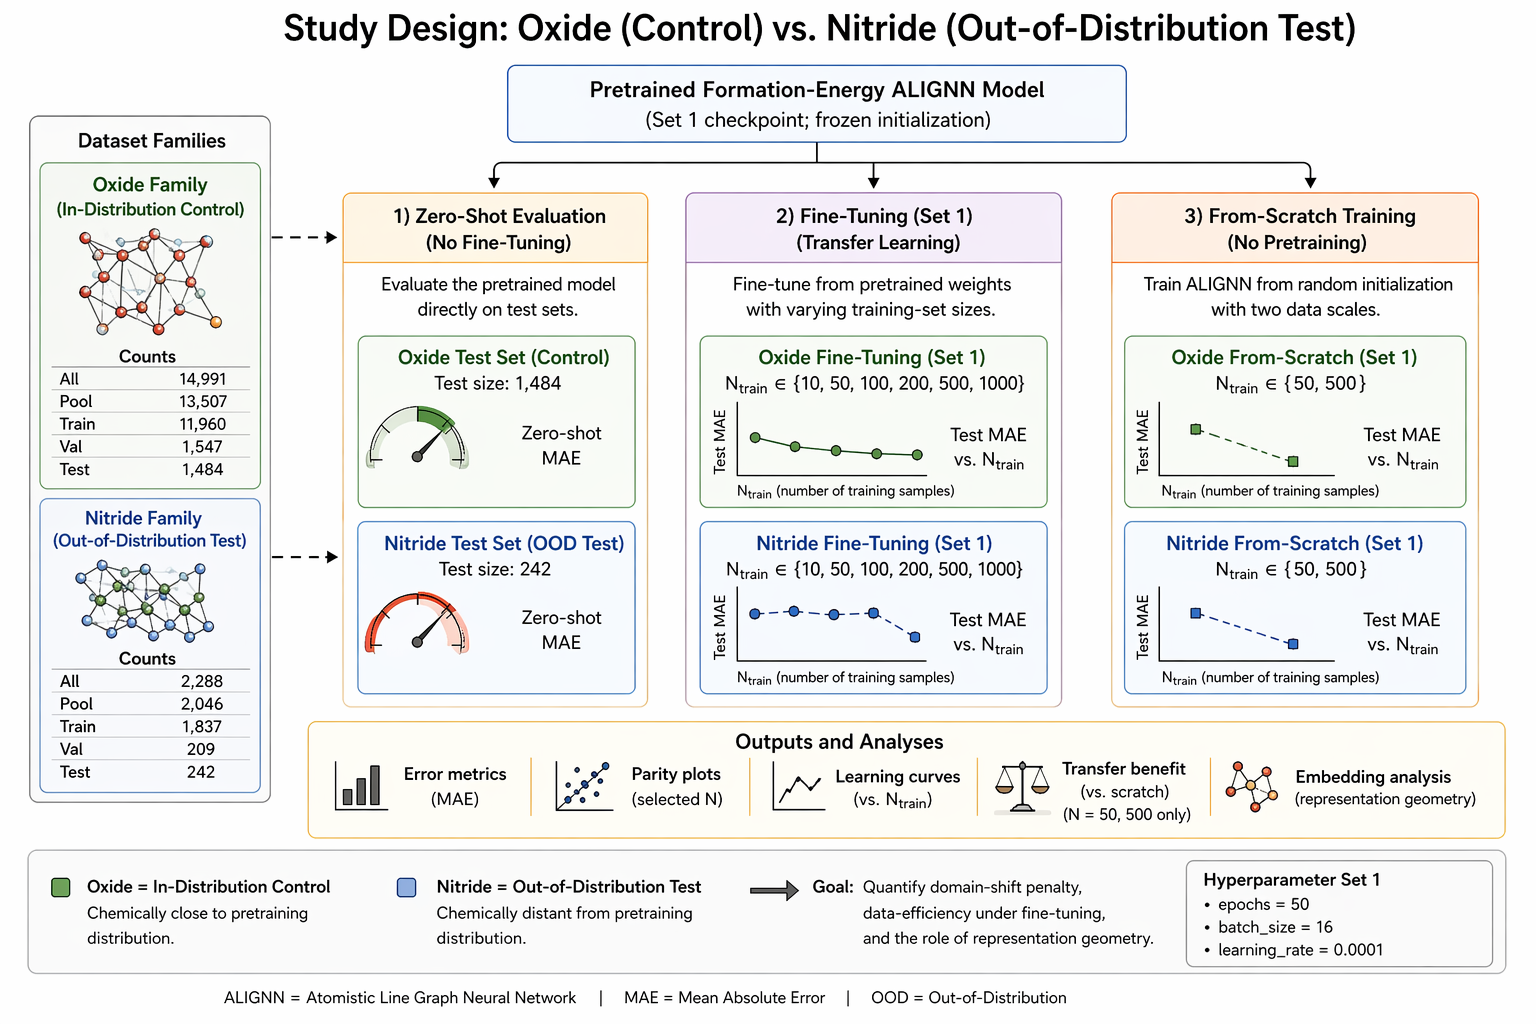
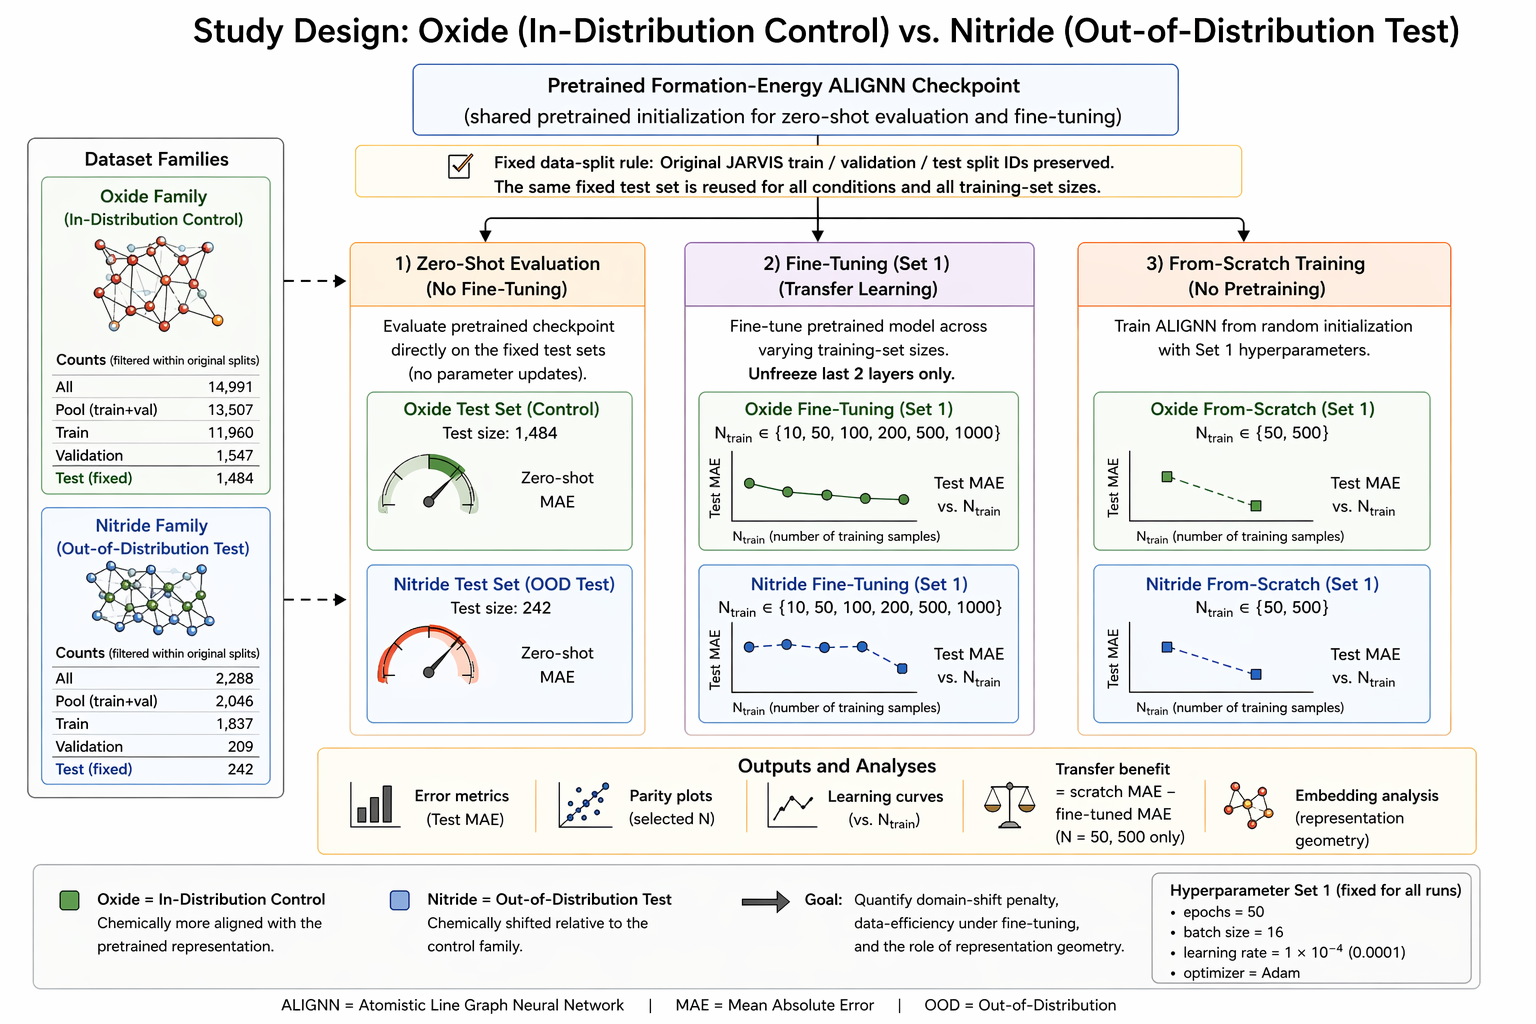
Phase 4 Core_Figures Done

Changed region(s): [[0.0, 0.0, 0.9688, 1.0]]

diff --git a/reports/final_paper_factory/02_figure_memos/fig05_transfer_benefit_comparison_memo.md b/reports/final_paper_factory/02_figure_memos/fig05_transfer_benefit_comparison_memo.md
@@ -1,0 +1,74 @@
+# Figure Memo: Fig. 05 Transfer-Benefit Comparison
+
+## Metadata
+
+- Figure label: `FIG_TRANSFER_BENEFIT`
+- Source figure: `reports/final_paper_factory/02_figure_memos/core_figures/FIG_TRANSFER_BENEFIT.png`
+- Canonical source path: `reports/final_paper_factory/02_figure_memos/core_figures/FIG_TRANSFER_BENEFIT.png`
+- Linked tables:
+  - `reports/Hyperparameter Set 1/Summaries/From Scratch/fromscratch_summary.csv`
+  - `reports/Hyperparameter Set 1/Summaries/Finetuning/finetune_summary_by_N.csv`
+- Definition shown in figure: `transfer benefit = scratch MAE - fine-tuned MAE`
+- Report membership: `combined`
+- Placement: `main_text`
+- External analysis inputs:
+  - `c:\Users\lenovo\Desktop\ChatGPT Figure Memo.txt`
+  - `c:\Users\lenovo\Desktop\Claude Figure Memo.txt`
+
+## What The Figure Shows
+
+This figure compares the transfer benefit of pretraining across the oxide and nitride families at the only two sample sizes where from-scratch baselines were run: `N=50` and `N=500`. The plotted quantity is defined as `scratch MAE - fine-tuned MAE`, so a larger positive bar indicates a larger improvement from starting with pretrained weights rather than random initialization.
+
+The four plotted bar values are:
+
+- Oxide, `N=50`: `0.504 eV/atom`
+- Nitride, `N=50`: `0.574 eV/atom` with an explicit caveat marker
+- Oxide, `N=500`: `0.221 eV/atom`
+- Nitride, `N=500`: `0.271 eV/atom`
+
+These values are consistent with the canonical Set 1 summary tables:
+
+- Oxide, `N=50`: scratch `0.5561` minus fine-tune `0.0523` = `0.5038`
+- Nitride, `N=50`: scratch `0.6914` minus fine-tune `0.1173` = `0.5741`
+- Oxide, `N=500`: scratch `0.2643` minus fine-tune `0.0430` = `0.2214`
+- Nitride, `N=500`: scratch `0.3683` minus fine-tune `0.0977` = `0.2706`
+
+The footnote on the nitride `N=50` bar states that this value reflects pretrained initialization advantage under the canonical analysis and should not be overinterpreted as strong fine-tuning adaptation.
+
+## Justified Interpretation
+
+The safest interpretation is that pretraining provides a large positive advantage over random initialization in both families at both matched data sizes. That is the main result this figure is designed to show.
+
+The second justified pattern is that transfer benefit is larger at `N=50` than at `N=500` for both families. This is consistent with the usual transfer-learning expectation that pretrained initialization matters most in the smaller-data regime and that the scratch route closes part of the gap as more labeled data becomes available.
+
+The most important caution is how to read the cross-family ordering. The nitride bars are slightly taller than the oxide bars at both `N` values, but that does not mean nitrides adapt better overall. It means the scratch-to-fine-tune gap is larger in absolute MAE terms for nitrides at these matched points. Because the nitride scratch baseline is worse than the oxide scratch baseline at both `N=50` and `N=500`, the nitride transfer-benefit bars are mechanically inflated by a weaker random-initialization anchor.
+
+The nitride `N=50` caveat is essential. Under the canonical analysis, that point is a pretrained-initialization advantage over scratch, not a clean adaptation-success result. The figure itself already flags this, and the memo should preserve that exact reading.
+
+## Non-Claims / Cautions
+
+- This figure does not show that nitrides transfer more effectively than oxides in a broader scientific sense; the taller nitride bars reflect a worse scratch baseline, not better final performance quality.
+- This figure does not support any claim outside `N=50` and `N=500`, because from-scratch baselines do not exist at `N=10`, `100`, `200`, or `1000`.
+- This figure does not compare zero-shot against fine-tuning directly; it is only about fine-tune versus scratch.
+- This figure does not show that nitride `N=50` is strong fine-tuning adaptation; the footnote explicitly warns that it reflects initialization advantage.
+- This figure does not explain the mechanism behind the family difference; embedding analyses are needed for that.
+- This figure has no uncertainty bars, so family-level bar-height differences should not be overread as a standalone statistical comparison.
+
+## Caption Draft
+
+Figure X. Transfer benefit of pretraining for oxide and nitride formation-energy prediction at `N=50` and `N=500`. Transfer benefit is defined as `scratch MAE - fine-tuned MAE`, so larger values indicate a larger improvement from pretrained initialization relative to random initialization at matched training-set size. Pretraining provides a substantial positive benefit in both families at both data sizes, with larger gains in the smaller-data regime. The nitride `N=50` bar is marked with a caveat because, under the canonical analysis, it reflects pretrained initialization advantage over scratch rather than strong fine-tuning adaptation.
+
+## Results Paragraph Draft
+
+Figure X compares the transfer benefit of pretraining across oxide and nitride families at the two sample sizes where from-scratch baselines were run. For oxides, the transfer benefit is `0.504 eV/atom` at `N=50` and `0.221 eV/atom` at `N=500`. For nitrides, the corresponding values are `0.574 eV/atom` at `N=50` and `0.271 eV/atom` at `N=500`. Thus, pretrained initialization substantially outperforms random initialization in both families, and the absolute benefit is larger in the smaller-data regime for both. The nitride `N=50` bar requires a specific interpretation guardrail: although the improvement over scratch is large, the canonical analysis indicates that this low-`N` nitride result is best read as pretrained initialization advantage rather than strong fine-tuning adaptation.
+
+## Discussion Paragraph Draft
+
+This figure clarifies an important nuance in the domain-shift story. Pretraining is clearly valuable not only for oxides but also for nitrides, because the fine-tuned route is much better than training from scratch at the matched `N=50` and `N=500` budgets. However, the slightly larger transfer-benefit bars for nitrides should not be misread as cleaner or more successful transfer. Instead, they show that nitrides suffer more when starting from random initialization, so pretrained initialization prevents a larger loss. That is fully consistent with a domain-shift account: the out-of-distribution family still profits from pretraining in practical terms, but it remains harder overall and does not exploit fine-tuning as cleanly as the oxide control arm, especially in the low-data regime.
+
+## Role In Report
+
+- Main-text cross-family comparison figure for Results III in the combined paper.
+- Shared summary figure for the question: how much does pretraining help relative to scratch, and how does that matched-budget help compare across families.
+- Companion synthesis figure to `fig05a_oxide_comparison_plot_memo.md` and `fig05b_nitride_comparison_plot_memo.md`.
+- Scope-guard figure: all claims here are strictly limited to `N=50` and `N=500`, with the nitride `N=50` initialization-advantage caveat carried explicitly.

diff --git a/reports/final_paper_factory/02_figure_memos/fig04_zero_shot_family_comparison_memo.md b/reports/final_paper_factory/02_figure_memos/fig04_zero_shot_family_comparison_memo.md
@@ -1,0 +1,61 @@
+# Figure Memo: Fig. 04 Zero-Shot Family Comparison
+
+## Metadata
+
+- Figure label: `FIG_ZS_COMPARISON`
+- Source figure: `reports/final_paper_factory/02_figure_memos/core_figures/FIG_ZS_COMPARISON.png`
+- Canonical source path: `reports/final_paper_factory/02_figure_memos/core_figures/FIG_ZS_COMPARISON.png`
+- Linked table: `reports/zero_shot/zero_shot_summary.csv`
+- Model: `jv_formation_energy_peratom_alignn`
+- Report membership: `nitride | combined | oxide_optional`
+- Placement: `main_text`
+- External analysis inputs:
+  - `c:\Users\lenovo\Desktop\ChatGPT Figure Memo.txt`
+  - `c:\Users\lenovo\Desktop\Claude Figure Memo.txt`
+
+## What The Figure Shows
+
+This figure compares the pretrained ALIGNN model's zero-shot test MAE on the two chemical families, with no parameter updates. The oxide bar shows a zero-shot MAE of `0.0342 eV/atom` on `1484` test structures, and the nitride bar shows a zero-shot MAE of `0.0695 eV/atom` on `242` test structures.
+
+The figure therefore presents the simplest family-level baseline contrast in the project: the same pretrained checkpoint evaluated directly on the oxide control test set and the nitride out-of-distribution test set.
+
+The linked zero-shot summary table gives the underlying canonical values:
+
+- Oxide: `n_test = 1484`, `mae_eV_per_atom = 0.0341836068`
+- Nitride: `n_test = 242`, `mae_eV_per_atom = 0.0695420150`
+
+## Justified Interpretation
+
+The safest interpretation is that a substantial family-dependent performance gap is already present at the pretrained starting point. Before any fine-tuning, the pretrained model performs much better on oxides than on nitrides.
+
+Because oxides are the in-distribution control family and nitrides are the out-of-distribution test family in the study framing, this figure is consistent with a domain-shift disadvantage for nitrides that exists prior to any supervised adaptation. That is the main value of the panel: it shows that the nitride penalty is not introduced by fine-tuning behavior alone.
+
+This figure is also important as a reference point for the rest of the paper. The zero-shot values shown here are the baseline against which the later fine-tuning learning curves, parity plots, and transfer-benefit comparisons are interpreted.
+
+## Non-Claims / Cautions
+
+- This figure does not explain why nitride zero-shot performance is worse; it shows the gap, not the mechanism.
+- This figure does not establish anything about fine-tuning dynamics, data efficiency, or adaptation onset; that requires the learning-curve figures.
+- This figure does not compare fine-tuning against scratch; that requires the `N=50` and `N=500` comparison plots.
+- This figure does not prove that embedding-space shift causes the zero-shot gap; that requires the embedding analyses.
+- This figure shows single fixed-test-set MAE values and no uncertainty intervals, so it should not be overread as a full statistical analysis by itself.
+- This figure should not be used to compare hyperparameter settings; zero-shot here is a direct checkpoint evaluation, not a training sweep.
+
+## Caption Draft
+
+Figure X. Zero-shot comparison for oxide and nitride formation-energy prediction. The pretrained ALIGNN checkpoint (`jv_formation_energy_peratom_alignn`) is evaluated directly on the fixed oxide and nitride test sets without fine-tuning. Zero-shot test MAE is lower for oxides (`0.0342 eV/atom`, `n=1484`) than for nitrides (`0.0695 eV/atom`, `n=242`), indicating a substantial family-dependent performance gap already at the pretrained starting point.
+
+## Results Paragraph Draft
+
+Figure X compares zero-shot test MAE for the oxide and nitride families using the pretrained ALIGNN checkpoint without any supervised adaptation. The oxide zero-shot MAE is `0.0342 eV/atom` on `1484` test structures, whereas the nitride zero-shot MAE is `0.0695 eV/atom` on `242` test structures. Thus, the nitride family starts from a substantially weaker pretrained baseline than the oxide control family. This establishes the project's baseline family gap before any fine-tuning and motivates the later analysis of whether supervised adaptation or embedding-space geometry helps explain that difference.
+
+## Discussion Paragraph Draft
+
+This zero-shot comparison is one of the cleanest baseline figures in the study because it isolates the pretrained starting point. No parameters are updated, so the observed oxide-versus-nitride gap reflects how the same pretrained model generalizes to the two families before any target-family supervision is introduced. In the broader paper, that makes this figure the correct starting anchor for the domain-shift story: the nitride difficulty is already visible at zero-shot, and later results must therefore be interpreted as attempts to recover from a pre-existing family mismatch rather than as the source of that mismatch.
+
+## Role In Report
+
+- Main-text baseline comparison figure for the nitride standalone report.
+- Main-text family-comparison anchor for the combined paper before the learning-curve and embedding sections.
+- Optional early-results figure for the oxide standalone report when the cross-family zero-shot contrast is useful as control context.
+- Reference-point figure: later fine-tuning and scratch comparisons are interpreted relative to these two zero-shot baselines.

diff --git a/reports/final_paper_factory/02_figure_memos/figure_queue.md b/reports/final_paper_factory/02_figure_memos/figure_queue.md
@@ -2,8 +2,7 @@
 
 **Purpose:** Human-readable companion to `figure_queue.csv`. Lists all figures assigned to the three report streams, their source paths, placement (main text vs appendix), linked evidence tables, and copy status.
 
-**One figure still requires manual creation before prose drafting can be finalized:**
-- `FIG_SCHEMATIC` — study design schematic
+All currently listed core main-text figures exist in the repo.
 
 ---
 
@@ -16,13 +15,13 @@ These figures are copied to `core_figures/`.
 ### Shared / Multi-report Figures
 
 #### FIG_SCHEMATIC
-- **Status:** to_be_created
+- **Status:** exists
 - **Report membership:** all three reports
 - **Placement:** main text
 - **Purpose:** Study design schematic showing oxide as in-distribution control and nitride as out-of-distribution test with zero-shot / fine-tune / scratch protocol
 - **Linked table:** none
-- **Source path:** to_be_created
-- **Copied to:** n/a
+- **Source path:** `reports/final_paper_factory/02_figure_memos/core_figures/FIG_SCHEMATIC.png`
+- **Copied to:** `core_figures/FIG_SCHEMATIC.png`
 
 #### FIG_ZS_COMPARISON
 - **Status:** exists
@@ -144,7 +143,7 @@ These figures are copied to `core_figures/`.
 - **Source path:** `reports/week4_embedding_analysis/figures/pca/last_alignn_pool_fixed_test_family.png`
 - **Copied to:** `core_figures/FIG_EA_6A_PCA.png`
 
-#### FIG_EA_6B_TSNE_P30
+#### FIG_EA_6B_TSNE
 - **Status:** exists
 - **Report membership:** nitride | combined | oxide (optional)
 - **Placement:** main text
@@ -154,7 +153,7 @@ These figures are copied to `core_figures/`.
 - **Copied to:** `core_figures/FIG_EA_6B_TSNE_P30.png`
 - **Note:** t-SNE preserves local neighborhoods but not global inter-cluster distances; interpret cautiously.
 
-#### FIG_EA_6C_UMAP_N30
+#### FIG_EA_6C_UMAP
 - **Status:** exists
 - **Report membership:** nitride | combined | oxide (optional)
 - **Placement:** main text
@@ -163,7 +162,7 @@ These figures are copied to `core_figures/`.
 - **Source path:** `reports/week4_embedding_analysis/figures/umap/last_alignn_pool_fixed_test_family_n30.png`
 - **Copied to:** `core_figures/FIG_EA_6C_UMAP_N30.png`
 
-#### FIG_EA_6D_KNN5_BOXPLOT
+#### FIG_EA_6D_BOXPLOT
 - **Status:** exists
 - **Report membership:** nitride | combined
 - **Placement:** main text
@@ -172,7 +171,7 @@ These figures are copied to `core_figures/`.
 - **Source path:** `reports/week4_embedding_analysis/figures/distance_vs_error/last_alignn_pool_oxide_knn5_mean_distance_hard_easy_boxplot.png`
 - **Copied to:** `core_figures/FIG_EA_6D_KNN5_BOXPLOT.png`
 
-#### FIG_EA_6D_KNN5_SCATTER
+#### FIG_EA_6D_SCATTER
 - **Status:** exists
 - **Report membership:** nitride | combined
 - **Placement:** main text
@@ -288,16 +287,14 @@ These figures are copied to `appendix_figures/`.
 
 | Category | Count |
 |---|---|
-| Core main-text figures (exists) | 15 |
-| Core main-text figures (to_be_created) | 1 |
+| Core main-text figures (exists) | 16 |
+| Core main-text figures (to_be_created) | 0 |
 | Appendix figures | 20 |
 | **Total** | **36** |
 
 ### Figures to be created
 
-This figure does not yet have a source file and must be generated before final paper assembly:
-
-1. **FIG_SCHEMATIC** — study design diagram (oxide control vs nitride OOD test, three protocol arms)
+No figures are currently marked `to_be_created`.
 
 ### Canonical embedding layer reminder
 

diff --git a/reports/final_paper_factory/02_figure_memos/figure_memo_index.md b/reports/final_paper_factory/02_figure_memos/figure_memo_index.md
@@ -9,6 +9,8 @@ Memo numbering follows the Phase 4 core-figure order in `REPORT_PLAN.txt`. This 
 | 01 | `fig01_study_design_schematic_memo.md` | `FIG_SCHEMATIC` | `reports/final_paper_factory/02_figure_memos/core_figures/FIG_SCHEMATIC.png` | `none` | `all` | `main_text` | complete |
 | 02 | `fig02_oxide_learning_curve_memo.md` | `FIG_S1_LC_OXIDE` | `reports/final_paper_factory/02_figure_memos/core_figures/FIG_S1_LC_OXIDE.png` | `reports/Hyperparameter Set 1/Summaries/Finetuning/finetune_summary_by_N.csv` | `oxide | combined` | `main_text` | complete |
 | 03 | `fig03_nitride_learning_curve_memo.md` | `FIG_S1_LC_NITRIDE` | `reports/final_paper_factory/02_figure_memos/core_figures/FIG_S1_LC_NITRIDE.png` | `reports/Hyperparameter Set 1/Summaries/Finetuning/finetune_summary_by_N.csv` | `nitride | combined` | `main_text` | complete |
+| 04 | `fig04_zero_shot_family_comparison_memo.md` | `FIG_ZS_COMPARISON` | `reports/final_paper_factory/02_figure_memos/core_figures/FIG_ZS_COMPARISON.png` | `reports/zero_shot/zero_shot_summary.csv` | `nitride | combined | oxide_optional` | `main_text` | complete |
+| 05 | `fig05_transfer_benefit_comparison_memo.md` | `FIG_TRANSFER_BENEFIT` | `reports/final_paper_factory/02_figure_memos/core_figures/FIG_TRANSFER_BENEFIT.png` | `reports/Hyperparameter Set 1/Summaries/From Scratch/fromscratch_summary.csv; reports/Hyperparameter Set 1/Summaries/Finetuning/finetune_summary_by_N.csv` | `combined` | `main_text` | complete |
 | 05a | `fig05a_oxide_comparison_plot_memo.md` | `FIG_S1_COMP_OXIDE` | `reports/final_paper_factory/02_figure_memos/core_figures/FIG_S1_COMP_OXIDE.png` | `reports/Hyperparameter Set 1/Summaries/From Scratch/fromscratch_summary.csv` | `oxide | combined` | `main_text` | complete |
 | 05b | `fig05b_nitride_comparison_plot_memo.md` | `FIG_S1_COMP_NITRIDE` | `reports/final_paper_factory/02_figure_memos/core_figures/FIG_S1_COMP_NITRIDE.png` | `reports/Hyperparameter Set 1/Summaries/From Scratch/fromscratch_summary.csv` | `nitride | combined` | `main_text` | complete |
 | 06 | `fig06_oxide_lowN_parity_memo.md` | `FIG_S1_PARITY_OXIDE_N10` | `reports/final_paper_factory/02_figure_memos/core_figures/FIG_S1_PARITY_OXIDE_N10.png` | `reports/Hyperparameter Set 1/Summaries/Finetuning/finetune_summary_by_N.csv` | `oxide | combined` | `main_text` | complete |
@@ -45,5 +47,5 @@ Memo numbering follows the Phase 4 core-figure order in `REPORT_PLAN.txt`. This 
 ## Notes
 
 - `FIG_S1_LC_OXIDE` is treated as core figure 02 because the Phase 4 minimum core-figure list places the study schematic first and the oxide learning curve second.
-- `05` remains reserved for the cross-family transfer-benefit figure. The family-specific comparison plots are treated as companion memos `05a` and `05b` so the reserved core numbering stays stable.
+- `05` is the cross-family transfer-benefit figure. The family-specific comparison plots are treated as companion memos `05a` and `05b` so the core numbering stays stable.
 - If the final paper uses both `FIG_EA_6D_KNN5_BOXPLOT` and `FIG_EA_6D_KNN5_SCATTER`, keep `fig13_nitride_distance_error_memo.md` as the primary memo and use `fig13b_nitride_distance_error_scatter_memo.md` as the continuous-association companion memo.

diff --git a/reports/final_paper_factory/02_figure_memos/fig01_study_design_schematic_memo.md b/reports/final_paper_factory/02_figure_memos/fig01_study_design_schematic_memo.md
@@ -9,7 +9,6 @@
 - Report membership: `all`
 - Placement: `main_text`
 - External analysis inputs:
-  - `c:\Users\lenovo\Desktop\ChatGPT Figure Memo.txt`
   - `c:\Users\lenovo\Desktop\Claude Figure Memo.txt`
 
 ## What The Figure Shows
